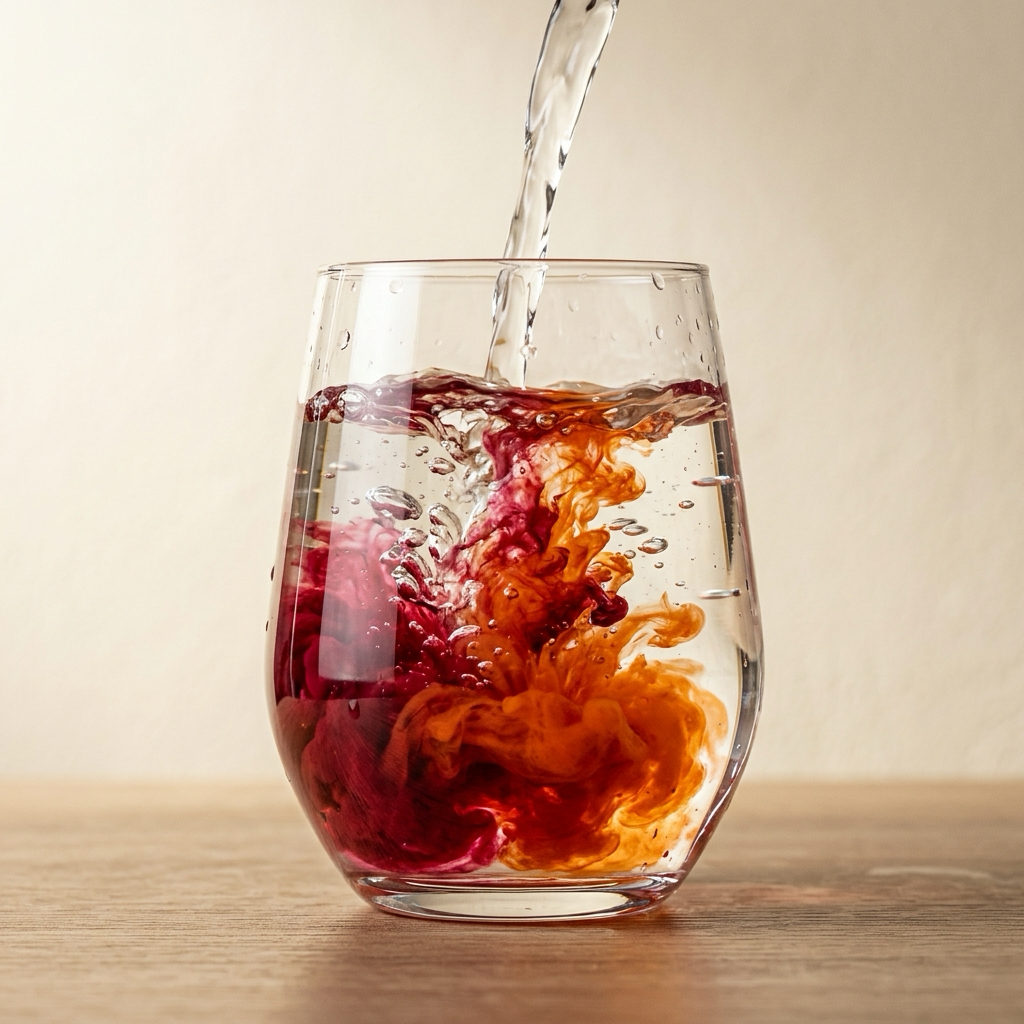
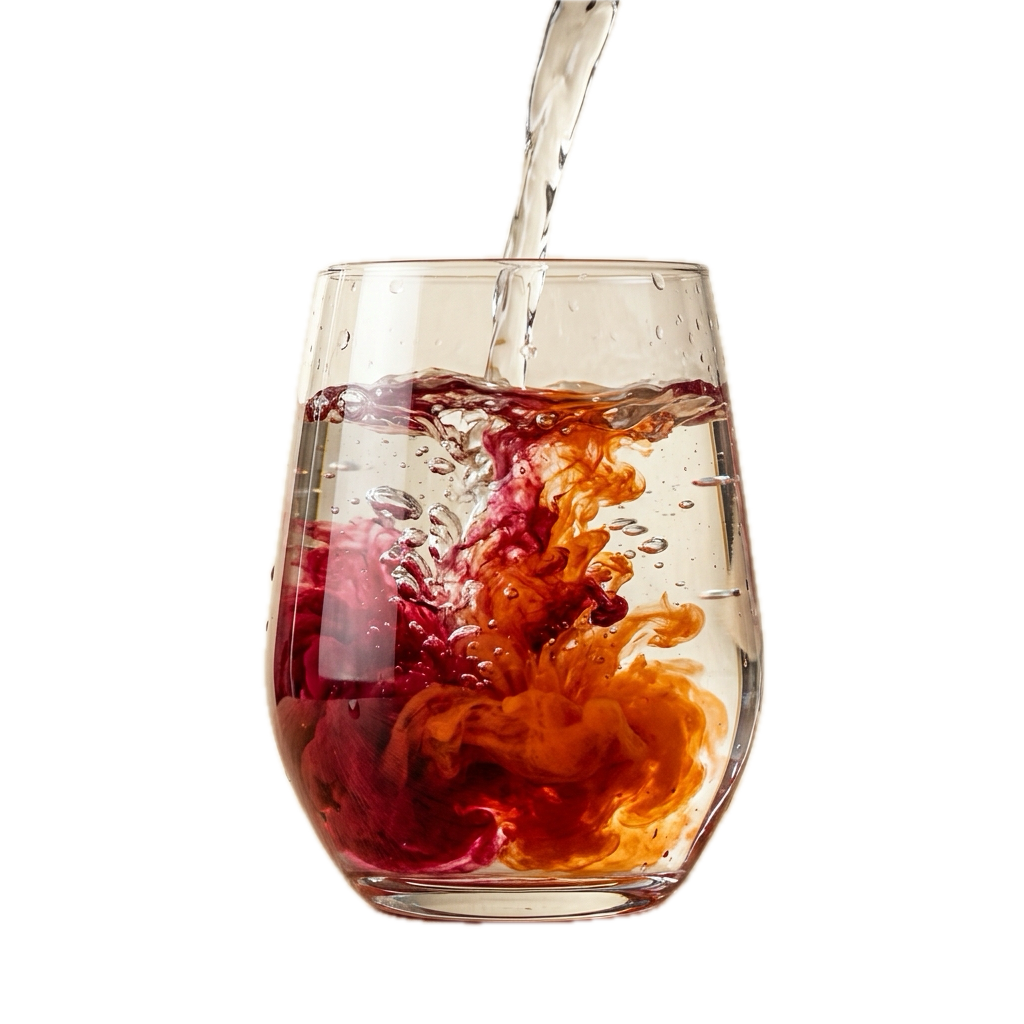
fix(storefront): concentric alignment for 5-ingredient orbit and transparent mix glass image with cache busting

diff --git a/assets/css/style.css b/assets/css/style.css
@@ -1433,8 +1433,8 @@ button {
 .power-orbit-stage {
     position: relative;
     width: 100%;
-    max-width: 980px;
-    height: 480px;
+    max-width: 880px;
+    aspect-ratio: 800 / 440;
     margin: 20px auto 35px auto;
     display: flex;
     align-items: center;
@@ -1458,6 +1458,7 @@ button {
 .power-orbit-svg {
     width: 100%;
     height: 100%;
+    display: block;
     overflow: visible;
     filter: drop-shadow(0 0 16px rgba(245, 205, 110, 0.45));
 }
@@ -1489,7 +1490,10 @@ button {
 /* Center Cup / Ceramic Powder Bowl */
 .power-center-cup-container {
     position: absolute;
-    width: clamp(230px, 25vw, 310px);
+    left: 50%;
+    top: 50%;
+    transform: translate(-50%, -50%);
+    width: clamp(210px, 23vw, 290px);
     z-index: 10;
     display: flex;
     align-items: center;
@@ -1540,8 +1544,10 @@ button {
 
 .power-orbit-item {
     position: absolute;
-    width: clamp(105px, 12vw, 135px);
-    height: clamp(105px, 12vw, 135px);
+    left: 50%;
+    top: 50%;
+    width: clamp(95px, 11vw, 125px);
+    height: clamp(95px, 11vw, 125px);
     display: flex;
     flex-direction: column;
     align-items: center;
@@ -1753,11 +1759,13 @@ button {
         padding: 50px 0 60px 0;
     }
     .power-orbit-stage {
-        height: 400px;
+        max-width: 740px;
+        height: auto;
+        aspect-ratio: 800 / 440;
         margin: 15px auto 25px auto;
     }
     .power-center-cup-container {
-        width: 240px;
+        width: 220px;
     }
     .power-ingredients-strip {
         grid-template-columns: repeat(3, 1fr);
@@ -1784,15 +1792,17 @@ button {
         font-size: 14.5px;
     }
     .power-orbit-stage {
-        height: 320px;
+        max-width: 100%;
+        height: auto;
+        aspect-ratio: 800 / 440;
         margin: 10px auto 20px auto;
     }
     .power-center-cup-container {
-        width: 180px;
+        width: 170px;
     }
     .power-orbit-item {
-        width: 85px;
-        height: 85px;
+        width: 82px;
+        height: 82px;
     }
     .orbit-item-chip {
         font-size: 10px;

diff --git a/assets/js/main.js b/assets/js/main.js
@@ -179,7 +179,7 @@ document.addEventListener("DOMContentLoaded", () => {
             function updatePowerOrbitPositions() {
                 const stageWidth = stage.offsetWidth || 800;
                 // Base SVG viewBox is -400 -220 800 440, rx=335, ry=135
-                const scale = Math.min(1.05, stageWidth / 800);
+                const scale = stageWidth / 800;
                 const rx = 335 * scale;
                 const ry = 135 * scale;
 

diff --git a/index.php b/index.php
@@ -1192,7 +1192,7 @@ $reviewMetaMap = [
 
                         <!-- Circular Media Frame -->
                         <div class="stage-circle-inner">
-                            <img src="assets/images/ritual-scoop.jpg" alt="Scooping ABC+ whole food powder" class="stage-base-img scoop-base-img" loading="lazy">
+                            <img src="assets/images/ritual-scoop.jpg?v=<?= file_exists(__DIR__ . '/assets/images/ritual-scoop.jpg') ? filemtime(__DIR__ . '/assets/images/ritual-scoop.jpg') : '1' ?>" alt="Scooping ABC+ whole food powder" class="stage-base-img scoop-base-img" loading="lazy">
                             <!-- Continuous Falling Granular Powder Canvas -->
                             <canvas class="stage-canvas canvas-powder" width="340" height="340" aria-hidden="true"></canvas>
                         </div>
@@ -1234,7 +1234,7 @@ $reviewMetaMap = [
 
                         <!-- Circular Media Frame -->
                         <div class="stage-circle-inner">
-                            <img src="assets/images/ritual-mix.png" alt="Mixing ABC+ powder with fresh water" class="stage-base-img mix-base-img" loading="lazy">
+                            <img src="assets/images/ritual-mix.png?v=<?= file_exists(__DIR__ . '/assets/images/ritual-mix.png') ? filemtime(__DIR__ . '/assets/images/ritual-mix.png') : '1' ?>" alt="Mixing ABC+ powder with fresh water" class="stage-base-img mix-base-img" loading="lazy">
                             <!-- Continuous Pouring Water Stream & Ripples Canvas -->
                             <canvas class="stage-canvas canvas-water" width="340" height="340" aria-hidden="true"></canvas>
                         </div>
@@ -1276,7 +1276,7 @@ $reviewMetaMap = [
 
                         <!-- Circular Media Frame -->
                         <div class="stage-circle-inner">
-                            <img src="assets/images/ritual-enjoy.jpg" alt="Enjoying fresh sparkling ABC+ wellness drink" class="stage-base-img enjoy-base-img" loading="lazy">
+                            <img src="assets/images/ritual-enjoy.jpg?v=<?= file_exists(__DIR__ . '/assets/images/ritual-enjoy.jpg') ? filemtime(__DIR__ . '/assets/images/ritual-enjoy.jpg') : '1' ?>" alt="Enjoying fresh sparkling ABC+ wellness drink" class="stage-base-img enjoy-base-img" loading="lazy">
                             <!-- Continuous Rising Effervescent Micro-Bubbles Canvas -->
                             <canvas class="stage-canvas canvas-bubbles" width="340" height="340" aria-hidden="true"></canvas>
                         </div>
